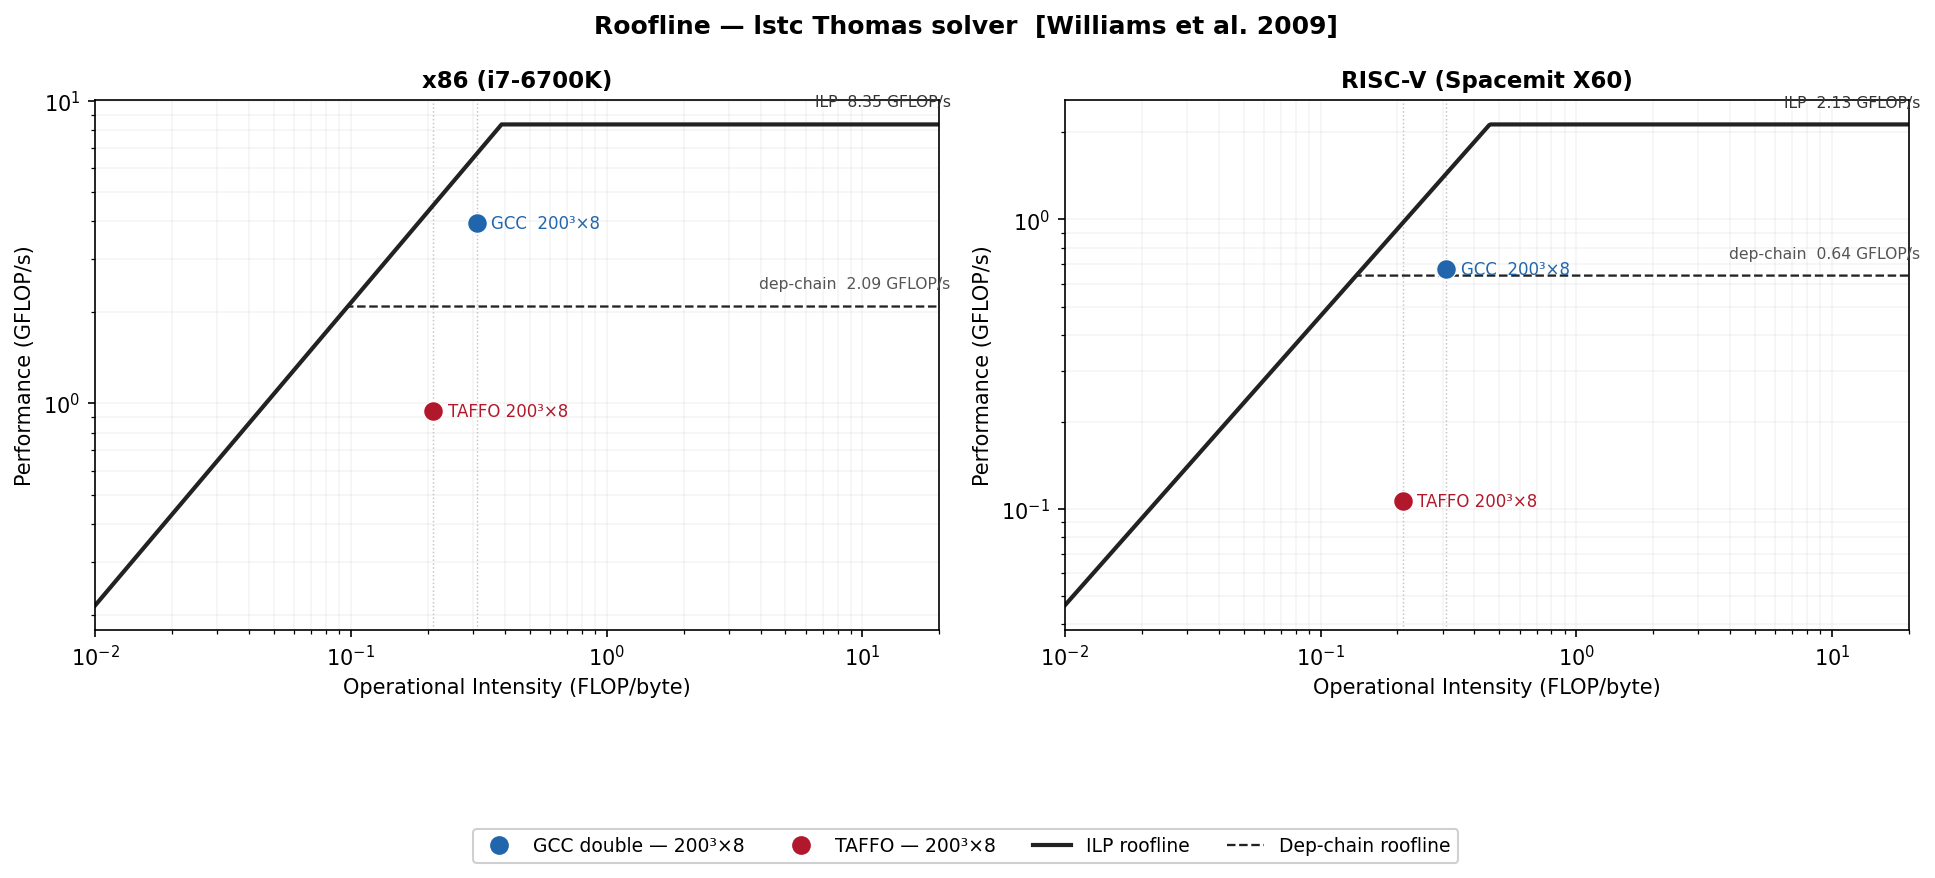
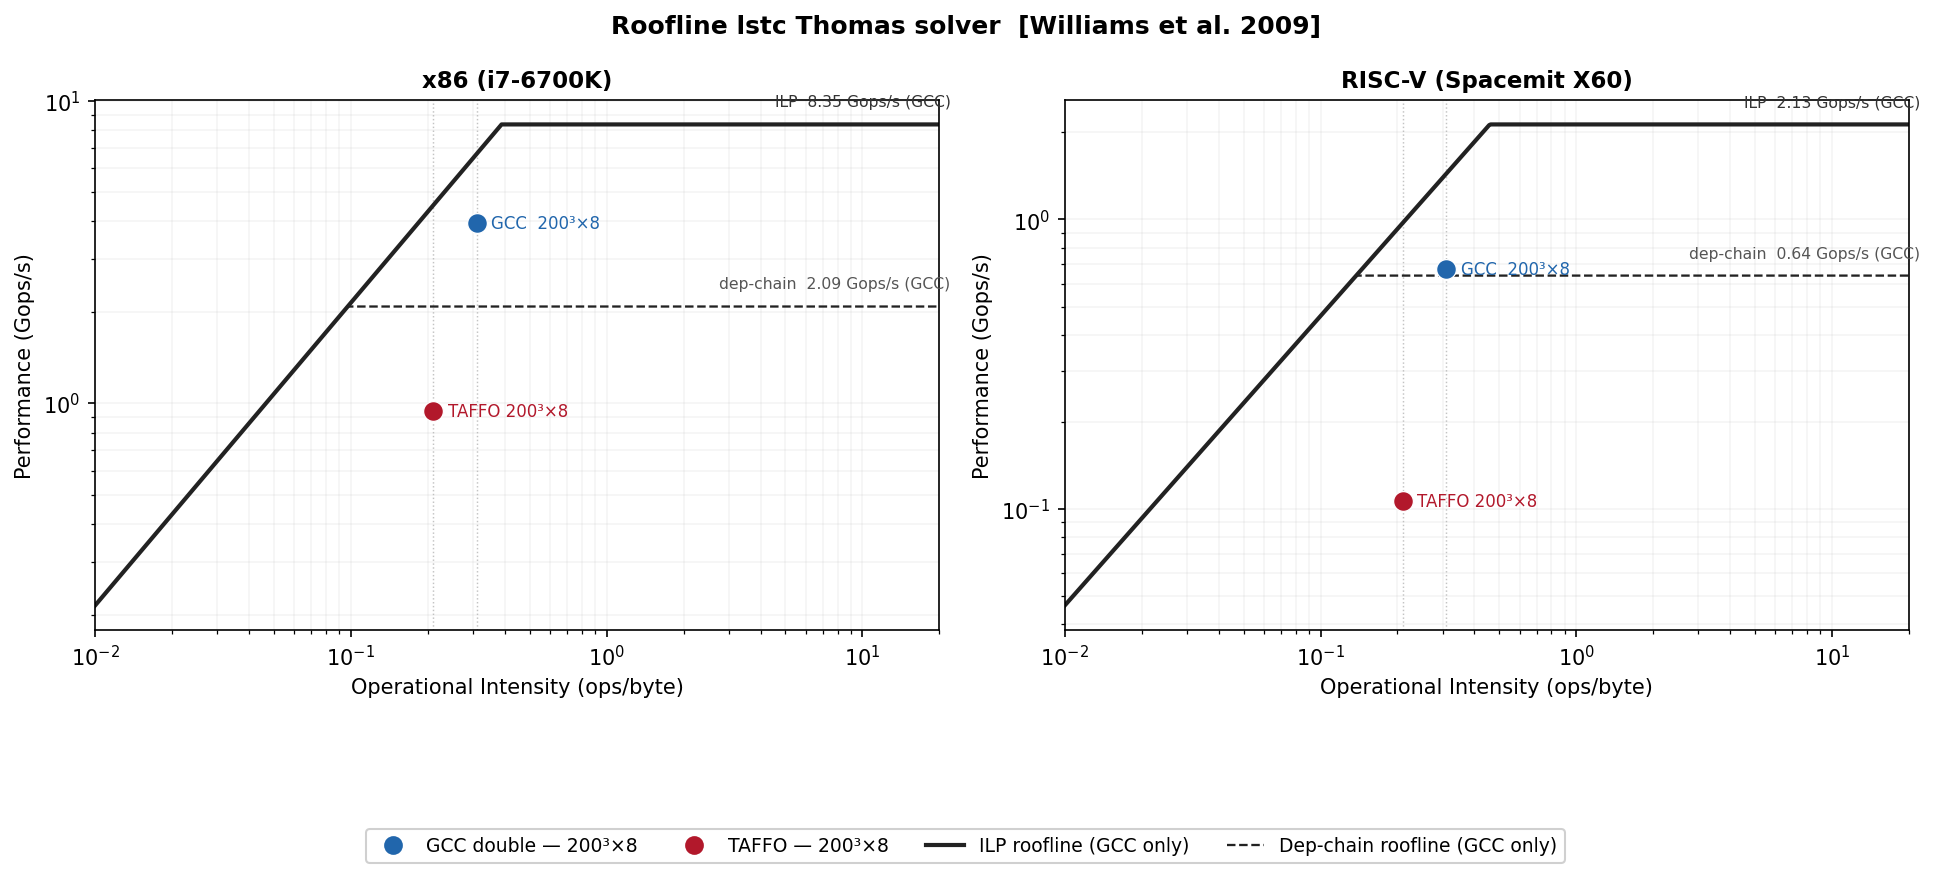
Roofline chart upd

diff --git a/roofline.md b/roofline.md
@@ -41,18 +41,26 @@ and 4-way ILP variant (throughput-bound), both `-O3 -ffast-math`.
 | y | nz doubles | 
 | x | ny×nz doubles (320 KB at 200³×8) | 
 
-### FLOPs per element
+### Operations per element
 
 `lstc` stores precomputed reciprocals in `b[]` and `e[]` before the benchmark loop.
 
 ```
-Forward:  d[i] = d[i] + e[i-1] * d[i-1]      1 FMA  = 2 FLOPs
-Backward: d[i] = (d[i] + c * d[i+1]) * b[i]  1 FMA + 1 MUL = 3 FLOPs
-Total: 5 FLOPs per element
+Forward:  d[i] = d[i] + e[i-1] * d[i-1]      1 FMA  = 2 ops
+Backward: d[i] = (d[i] + c * d[i+1]) * b[i]  1 FMA + 1 MUL = 3 ops
+Total: 5 ops per element
 ```
 
-Assumption: For GCC, these are FP operations. For TAFFO, the Thomas loop uses integer arithmetic, throughput is reported as
-(elements × 5) / time in FP-equivalent units; the FP compute ceilings do not strictly apply.
+Both GCC and TAFFO solve the same Thomas problem with the same number of arithmetic steps.
+Williams et al. [1] address the "model is limited to floating-point programs" fallacy directly:
+the roofline can be applied to any operation count, replacing FLOPs with the relevant unit.
+Here, 5 algorithmic operations per element is used uniformly.
+
+For GCC these map to FP instructions (FMA + multiply); for TAFFO the Thomas loop uses
+integer arithmetic (`imul`/`shr` on x86, `fcvt.d.wu`/`fmul.d` on RISC-V after
+fixed-point conversion). The memory bandwidth ceiling applies to both.
+The compute ceilings (dep-chain, ILP) apply to GCC only — they were measured with
+FP FMA microbenchmarks and have no direct equivalent for TAFFO's integer path.
 
 ### Operational intensity
 
